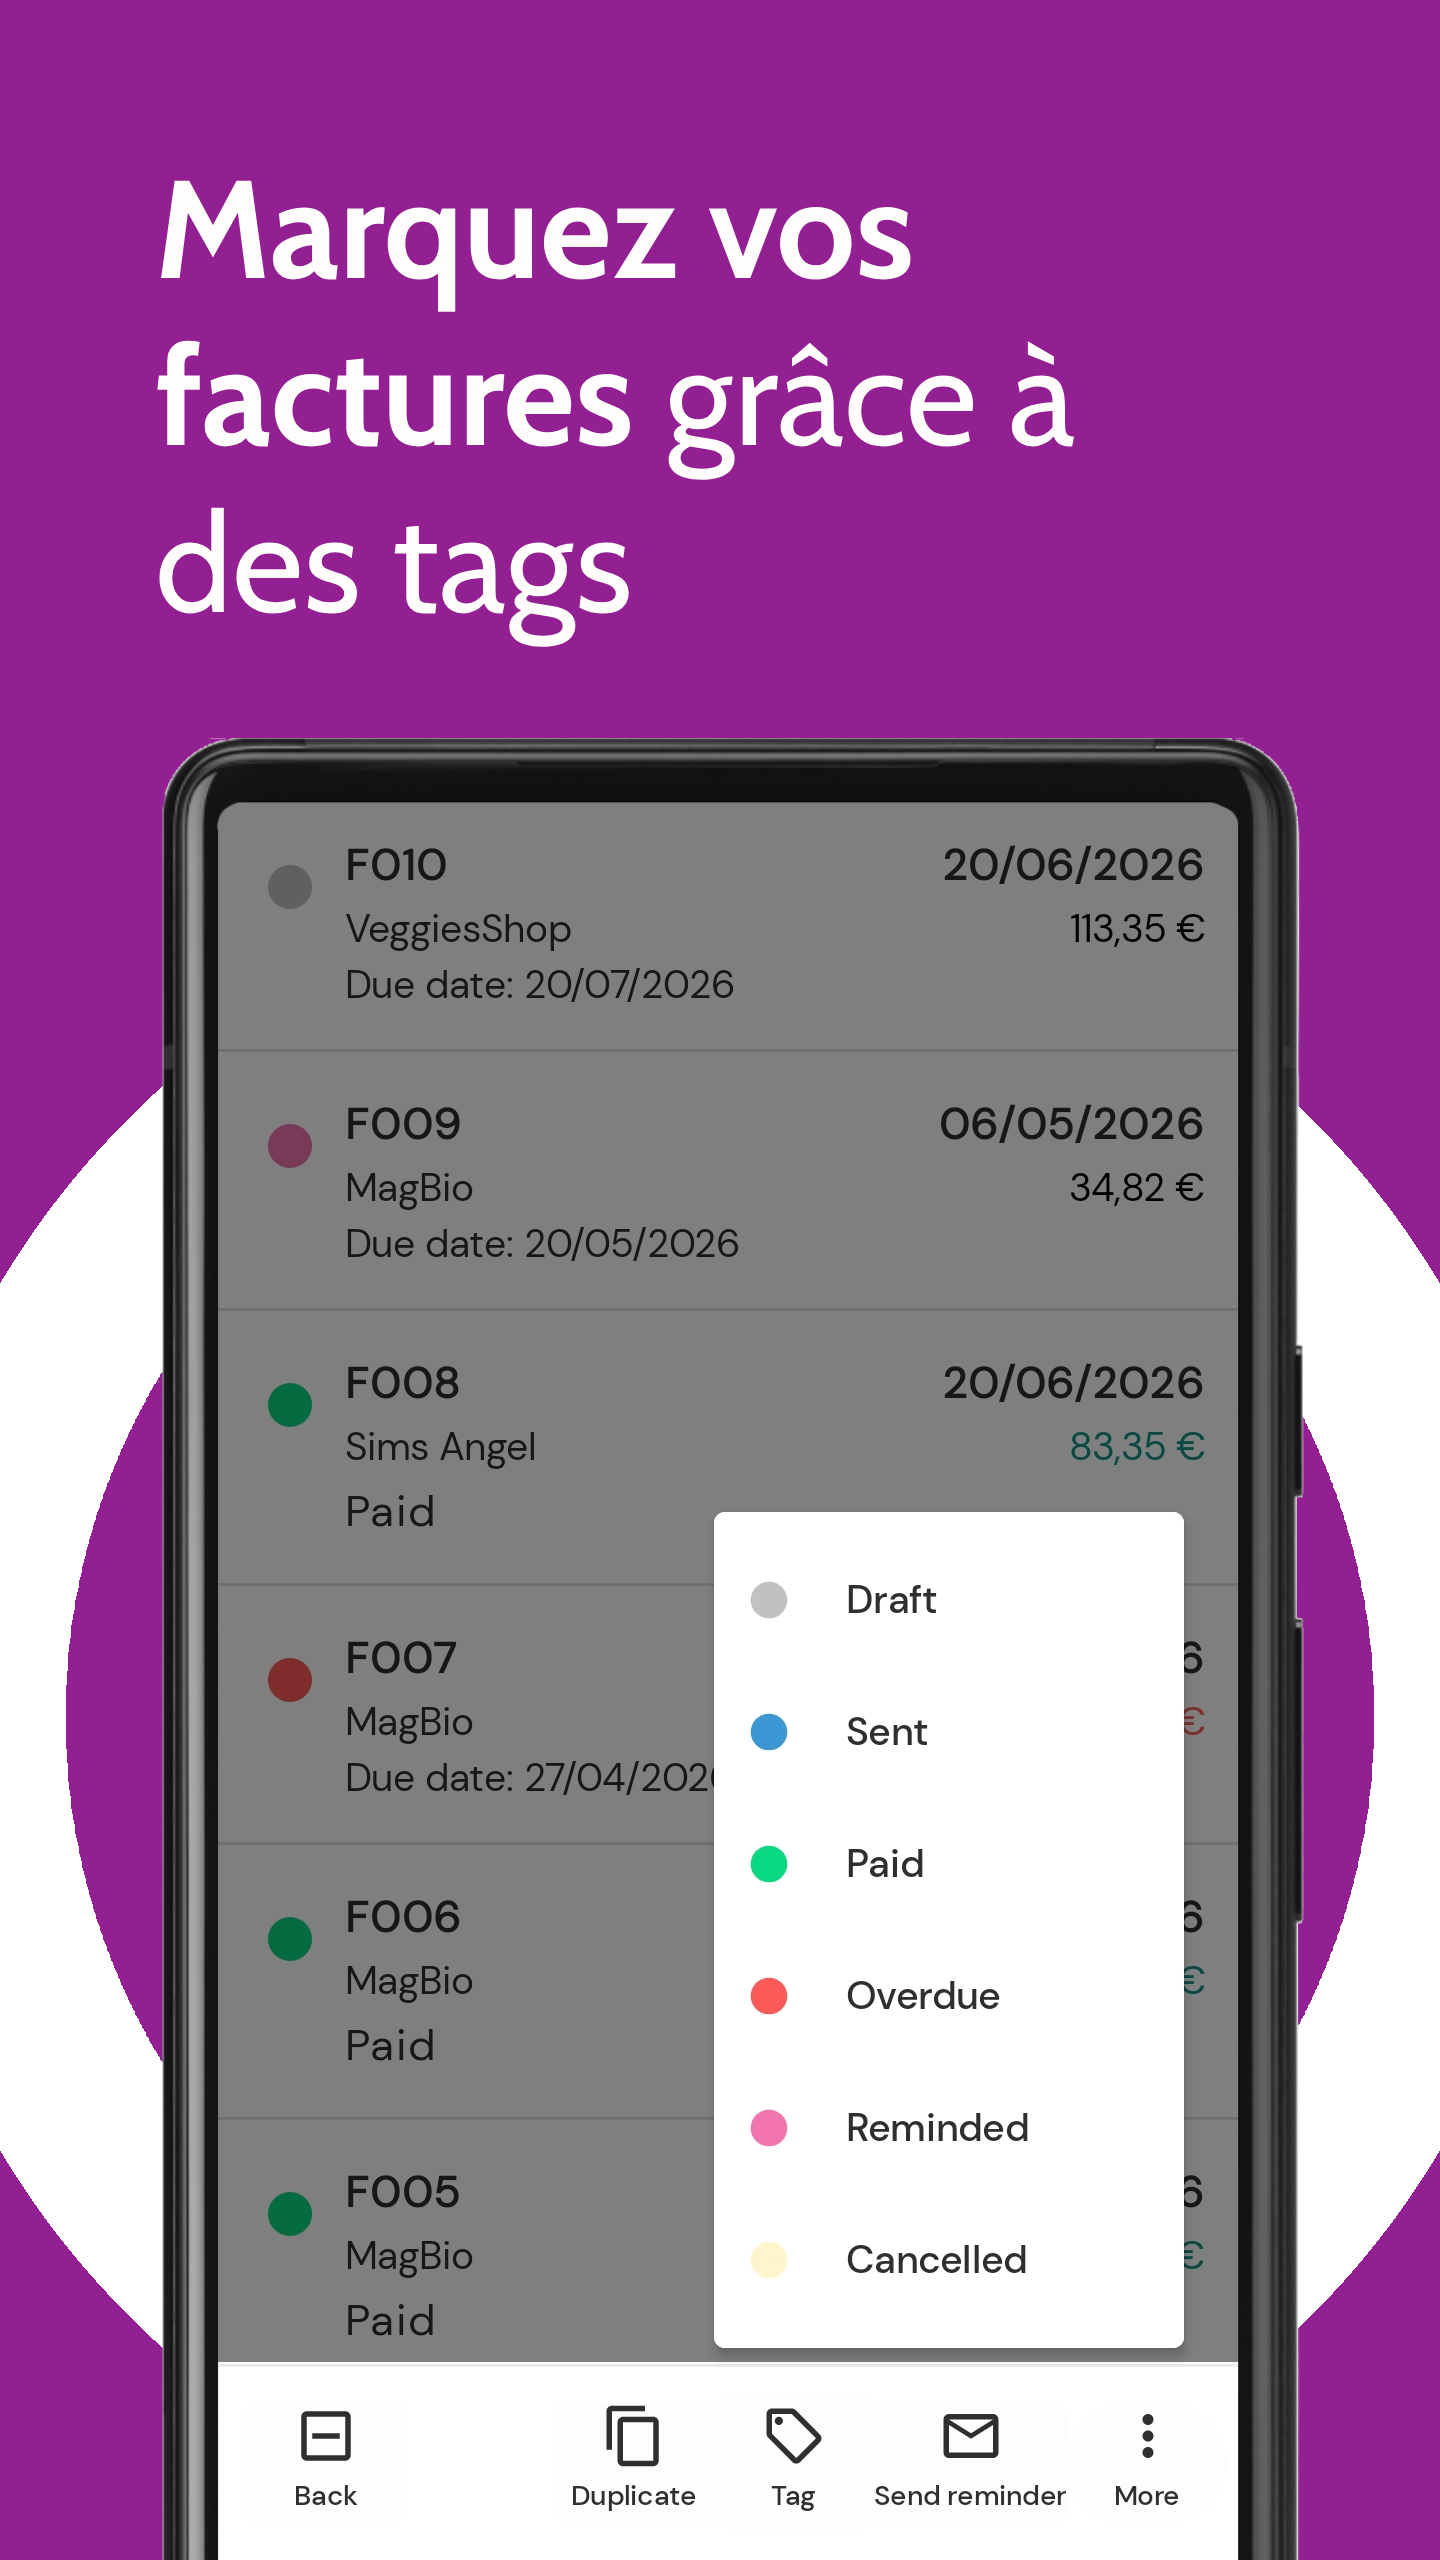
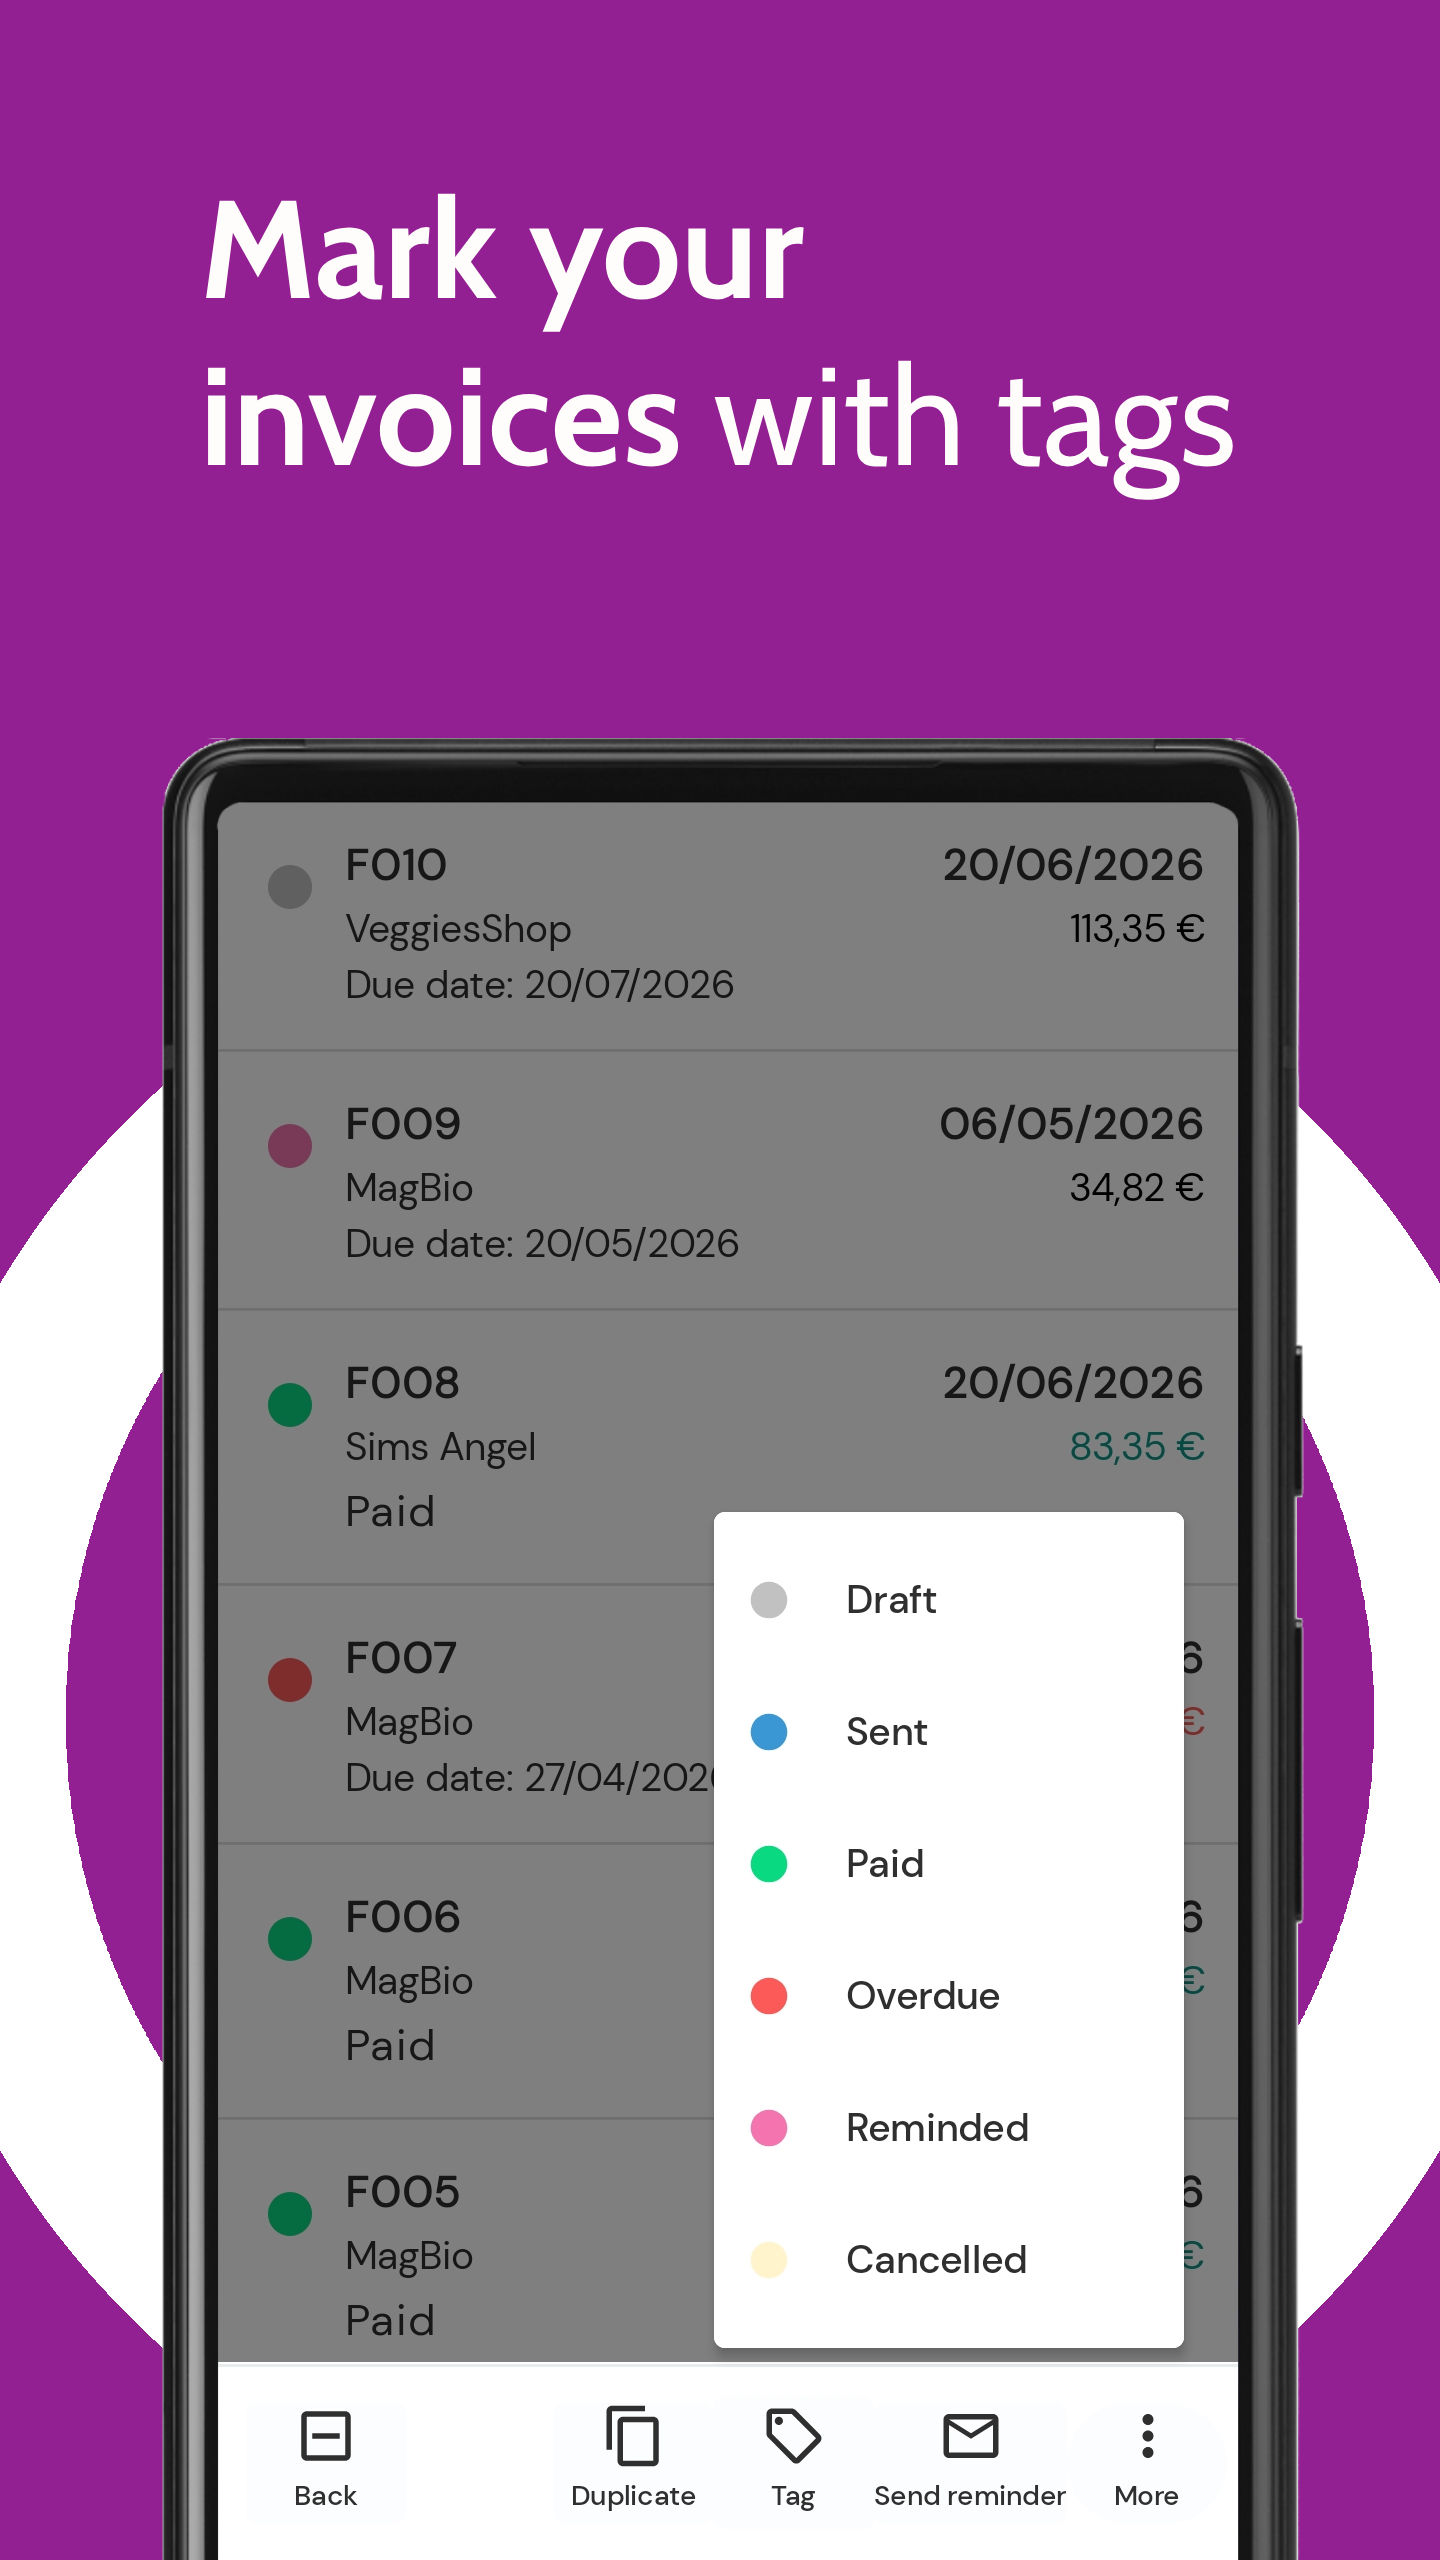
Update version name

Changed region(s): [[0.0938, 0.0625, 0.875, 0.25]]

diff --git a/fastlane/README.md b/fastlane/README.md
@@ -1,0 +1,56 @@
+fastlane documentation
+----
+
+# Installation
+
+Make sure you have the latest version of the Xcode command line tools installed:
+
+```sh
+xcode-select --install
+```
+
+For _fastlane_ installation instructions, see [Installing _fastlane_](https://docs.fastlane.tools/#installing-fastlane)
+
+# Available Actions
+
+## Android
+
+### android test
+
+```sh
+[bundle exec] fastlane android test
+```
+
+Runs all the tests
+
+### android beta
+
+```sh
+[bundle exec] fastlane android beta
+```
+
+Submit a new Beta Build to Crashlytics Beta
+
+### android deploy
+
+```sh
+[bundle exec] fastlane android deploy
+```
+
+Deploy a new version to the Google Play
+
+### android metadata
+
+```sh
+[bundle exec] fastlane android metadata
+```
+
+Push store listing only (texts + screenshots + changelogs), no build
+
+----
+
+This README.md is auto-generated and will be re-generated every time [_fastlane_](https://fastlane.tools) is run.
+
+More information about _fastlane_ can be found on [fastlane.tools](https://fastlane.tools).
+
+The documentation of _fastlane_ can be found on [docs.fastlane.tools](https://docs.fastlane.tools).